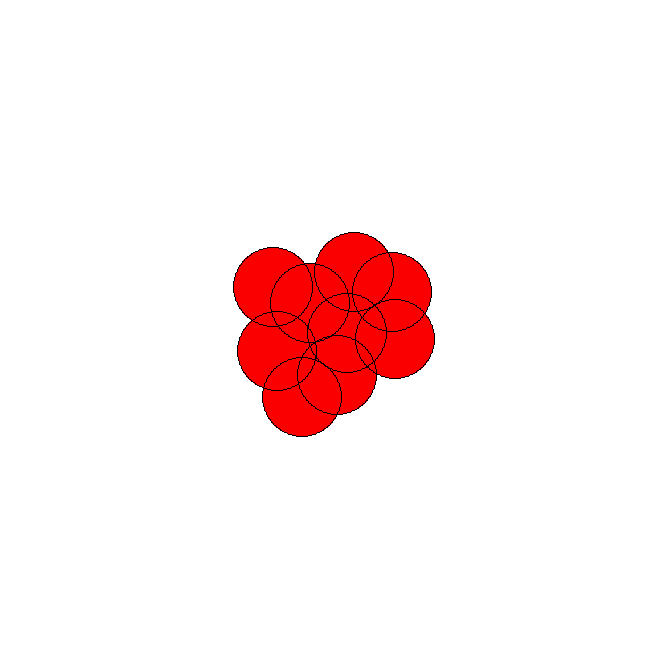
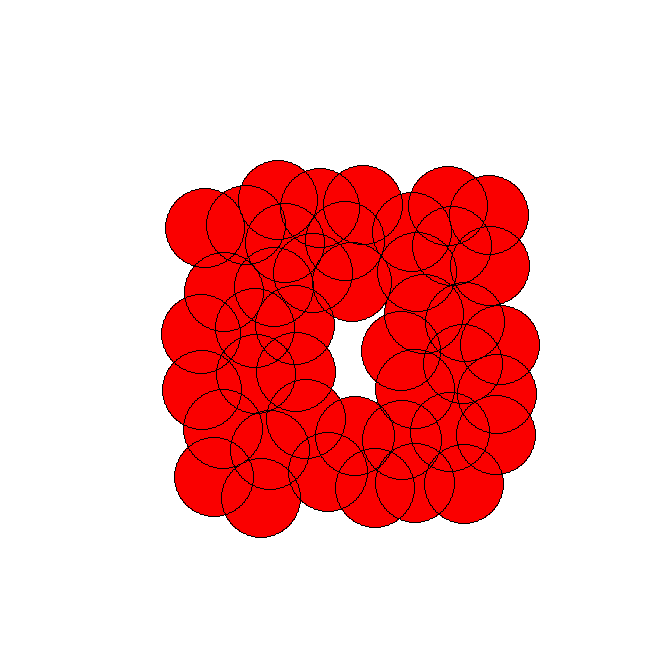
Bug fixed
Contraction is perfect now!!!!!!!

Changed region(s): [[0.2462, 0.2462, 0.8308, 0.8308]]

diff --git a/alphashape/Contraction.py b/alphashape/Contraction.py
@@ -15,6 +15,16 @@ from hyper_geometry import *
 from l1_geometry	import *
 from Triangle	   import *
 
+def draw_triangle2( triangle, surface, color ):
+	points = [ (int(triangle.spheres[0].center[0]), int(triangle.spheres[0].center[1]) ), (int(triangle.spheres[1].center[0]), int(triangle.spheres[1].center[1]) ), ( int(triangle.spheres[2].center[0]), int(triangle.spheres[2].center[1] )) ];
+	pygame.draw.polygon(surface, color, points, 5);
+	return;
+
+def draw_triangle( triangle, surface, color ):
+	points = [ (int(triangle.spheres[0].center[0]), int(triangle.spheres[0].center[1]) ), (int(triangle.spheres[1].center[0]), int(triangle.spheres[1].center[1]) ), ( int(triangle.spheres[2].center[0]), int(triangle.spheres[2].center[1] )) ];
+	pygame.draw.polygon(surface, color, points);
+	return;
+
 def GF2_matrix_rank( matrix, nrows, ncols ):
 	'''Given a matrix, compute its rank'''
 	rank = 0;
@@ -52,7 +62,7 @@ def betti_number(triangle_set, edge_list, edge_tri_dict):
 		if not vertices.has_key(edge[0]):# put vertices in the vertices set
 			vertices[edge[0]] = 1;
 		if not vertices.has_key(edge[1]):
-			vertices[edge[0]] = 1;   
+			vertices[edge[1]] = 1;
 		
 	#print "Creating a {0} matrix".format((len(edge_list), len(triangle_set)))
 	matrix = numpy.zeros((len(edge_list), len(triangle_set) ), dtype='int32');
@@ -74,12 +84,17 @@ def betti_number(triangle_set, edge_list, edge_tri_dict):
 
 		triangles = edge_tri_dict[edge]
 		for triangle in triangles:
-			if triangle_mapping.has_key(triangle):
+			if triangle_set.has_key(triangle) and triangle_mapping.has_key(triangle):
 				j = triangle_mapping[triangle]
 				matrix[i, j] = 1;
 		i += 1
 
-	return len(edge_list) - len(vertices) + 1 - GF2_matrix_rank(matrix, len(edge_list), len(triangle_set));
+	print "---- Betti Number ----"
+	print "matrix:\n{0}".format(matrix);
+	print "edges: {0}".format(len(edge_list));
+	print "vertices: {0}".format(len(vertices));
+	rank = GF2_matrix_rank(matrix, len(edge_list), len(triangle_set));
+	return len(edge_list) - len(vertices) + 1 - rank;
 
 
 class Component:
@@ -89,55 +104,72 @@ class Component:
 		'''A component should at least have one ball'''
 		self.spheres = {}
 		self.spheres[init_ball] = 1;
-		self.edge_list = [];
+		self.edge_set = {};
 		self.triangle_set = {};
 
 	def get_spheres(self):
 		return self.spheres.keys();
 
-	def add_sphere(self, sphere, edge_tri_dict):
+	def add_sphere(self, sphere, edge_tri_dict, sphere_tri_dict, surf):
 		'''determine if we can add a sphere to the component without increasing the 1-st betti number'''
 		if self.spheres.has_key(sphere):
 			return False;
 			#raise Exception('You got a bug, the sphere is already in the component');
-		
+		self.spheres[sphere] = 1;
+
 		new_triangles = {};
 		new_edges = {};
+
+		candidate_triangles = sphere_tri_dict[sphere];
+		i = 1;
+		for tri in candidate_triangles:
+			if new_triangles.has_key(tri) and self.triangle_set.has_key(tri):
+				continue;
+			# all vertices in the triangle are in the component;
+			valid = True;
+			for s in tri.spheres:
+				if not self.spheres.has_key(s):
+					valid = False;
+			if not valid:
+				continue;
+			new_triangles[tri] = 1;
+			draw_triangle(tri, surf, (0,250,0));
+			pygame.display.update();
+
+			# add edges of the triangle to our component
+			for v1, v2 in tri.edges():
+				if (not self.edge_set.has_key((v1, v2)) and not self.edge_set.has_key((v2, v1))) and ( not new_edges.has_key( (v2, v1)) and not new_edges.has_key( (v2, v1) ) ):
+					new_edges[ (v1, v2) ] = 1;
+					pygame.draw.line( surf, (255,0,0), (int(v1.center[0]),int(v1.center[1])), (int(v2.center[0]),int(v2.center[1])), 2 )
+					pygame.display.update();
 
 		# Get new edges that might be added to the component
 		for ball in self.spheres.keys(): 			# This step could be slow!!! (If the component has too many spheres already)
 			if ball.intersects(sphere) and not new_edges.has_key((ball, sphere)) and not new_edges.has_key((sphere,ball)):
-				new_edges[(ball, sphere)] = 1;
-
-		# Get new triangles that might be added to the component
-		for vert1, vert2 in new_edges.keys():
-			edge_asct_tris = []
-
-			if edge_tri_dict.has_key( (vert1, vert2) ):
-				edge_asct_tris = edge_tri_dict[(vert1, vert2)];	# triangles associated to an edge. 
-															# might or might not be a triangle in self.triangle_set
-			if edge_tri_dict.has_key( (vert2, vert1) ):
-				edge_asct_tris += edge_tri_dict[(vert2, vert1)];
-
-			#edge_asct_tris += edge_asct_tris[(vert2, vert1)];
-			for tri in edge_asct_tris:
-				if not new_triangles.has_key(tri):
-					new_triangles[tri] = 1;
+				if edge_tri_dict.has_key( (ball, sphere) ) or edge_tri_dict.has_key((sphere, ball)):
+					new_edges[(ball, sphere)] = 1;
+					pygame.draw.line( surf, (255,0,0), (int(ball.center[0]),int(ball.center[1])), (int(sphere.center[0]),int(sphere.center[1])), 2 )
+					pygame.display.update();
+		
 
 		# Now we have distinct new edges and new triangles while add a new sphere
 		# Add them up.
-		total_triangle_set = dict( self.triangle_set.items() + new_triangles.items() );
-		total_edges 	   = self.edge_list + new_edges.keys();
+		total_triangle_set = dict(self.triangle_set.items() + new_triangles.items());
+		total_edges 	   = dict(self.edge_set.items() + new_edges.items());
 		# Time to determine the betti number.
-		betti 	   		   = betti_number(total_triangle_set, total_edges, edge_tri_dict);
+		#print "Total Triangle Set:\n {0}".format(total_triangle_set);
+		#print "Total Edge Set: {0}".format(total_edges);
+		#print "Total spheres:\n{0}".format( self.spheres );
+		betti 	   		   = betti_number(total_triangle_set, total_edges.keys(), edge_tri_dict);
 		
 		print betti
 
-		if betti <= 0:						# If it will not increase the 1-st betti number
+		if betti == 0:						# If it will not increase the 1-st betti number
 			self.spheres[sphere] = 1;		# add the sphere to the component
 			self.triangle_set = total_triangle_set;# update triangles in the component
-			self.edge_list = total_edges;	# update edges in the component.
+			self.edge_set     = total_edges;	# update edges in the component.
 			return True;					# Tell caller the sphere can be added to the component
+		del self.spheres[sphere];
 		return False;						# Tell caller the sphere cannot be added to the component
 
 	def render(self, surf, color):
@@ -180,15 +212,15 @@ class Contraction:
 		'''start from a sphere as the init of component, contract its neighbors as much as possible'''
 		component = Component(sphere);					# Start from the initial sphere
 		used_spheres[sphere] = 1;
+		print '---------------------------------------------'
 		print sphere
 		find_new_sphere = True;							# Mark if we keep finding new spheres
 
 		while find_new_sphere:							# Loop until we can't find any new spheres to add
 														# Find all neighbor spheres ( such that they are not used in any components )
-			
 			component.render(self.surface, (0,250,0));
 			pygame.display.update();
-			time.sleep(1);
+			#time.sleep(1);
 
 			neighbors = self.component_neighbor_spheres(component, used_spheres, sphere_tri_dict);  
 			find_new_sphere = False;
@@ -197,16 +229,17 @@ class Contraction:
 					continue;
 				pygame.draw.circle( self.surface, (250,0,0), (int(neighbor.center[0]), int(neighbor.center[1])), int(neighbor.radius), 2 );
 				pygame.display.update();
-				time.sleep(0.5)
-				print "testing {0}".format(neighbor);
-				if component.add_sphere(neighbor, edge_tri_dict):	# if it can be added to the current component, add it.
+				#time.sleep(0.5)
+				#print "testing {0}".format(neighbor);
+				if component.add_sphere(neighbor, edge_tri_dict, sphere_tri_dict, self.surface):	# if it can be added to the current component, add it.
 					used_spheres[neighbor] = 1;						# mark the sphere as used
 					find_new_sphere = True;							# Yes, we've found a new sphere. Keep looping.
 					print "Good!"
+					component.render(self.surface, (0,250,0));
 					pygame.draw.circle( self.surface, (0,250,0), (int(neighbor.center[0]), int(neighbor.center[1])), int(neighbor.radius), 2 );
 					pygame.display.update();
-				
-				time.sleep(1);
+
+				#time.sleep(1);
 
 		return component;
 

diff --git a/topology/Contraction_test.py b/topology/Contraction_test.py
@@ -47,8 +47,10 @@ def main():
 	pygame.display.update();
 
 	print 'Start Loading'
-	sphere_list = load_data('../sampling/experiments/experiment2.txt', 'L2');
+	sphere_list = load_data('../sampling/experiments/experiment.txt', 'L2');
 	print 'Start Rendering Spheres'
+	for sphere in sphere_list:
+		pygame.draw.circle( DISPLAYSURF, (200, 200, 200), (int(sphere.center[0]), int(sphere.center[1])), int(sphere.radius), 1 );
 	
 	triangulator = Triangulator(sphere_list);
 
@@ -66,7 +68,7 @@ def main():
 	for comp in components:
 		color = (160/len(components) * i, 200/len(components) * i, 100/len(components) * i );
 		comp.render(DISPLAYSURF, color);
-		print comp.get_spheres();
+		#print comp.get_spheres();
 		i+=1
 
 	pygame.display.update();

diff --git a/sampling/experiments/random_sampling.py b/sampling/experiments/random_sampling.py
@@ -22,7 +22,7 @@ def inside(sphere, point):
 	@param point: (x,y)'''
 	if (sphere[0]-point[0])**2 + (sphere[1]-point[1])**2 < (sphere[2]*1)**2:
 		return True;
-	if point[0] <= 400 and point[0] >= 350 and point[1] <= 400 and point[1] >= 350:
+	if point[0] <= 400 and point[0] >= 300 and point[1] <= 400 and point[1] >= 300:
 		return True;
 
 def sample_one(n, samples):
@@ -30,8 +30,8 @@ def sample_one(n, samples):
 	global height;
 	failed_times = 0;
 	while failed_times < n:
-		rand_x = random.randint(270, width-200);
-		rand_y = random.randint(270, height-200);
+		rand_x = random.randint(200, width-100);
+		rand_y = random.randint(200, height-100);
 		point = ( rand_x, rand_y );
 		r = 40;
 		good_sample = True;

diff --git a/alphashape/Triangle.py b/alphashape/Triangle.py
@@ -52,6 +52,10 @@ class Triangle:
 		return False;	
 
 	def is_filled(self):
+
+		if not self.spheres[0].intersects(self.spheres[1]) or not self.spheres[0].intersects(self.spheres[2]) or not self.spheres[2].intersects(self.spheres[1]):
+			return False;
+
 		if isinstance(self.spheres[0], l1_sphere ):
 			return self.is_filled_l1();
 
